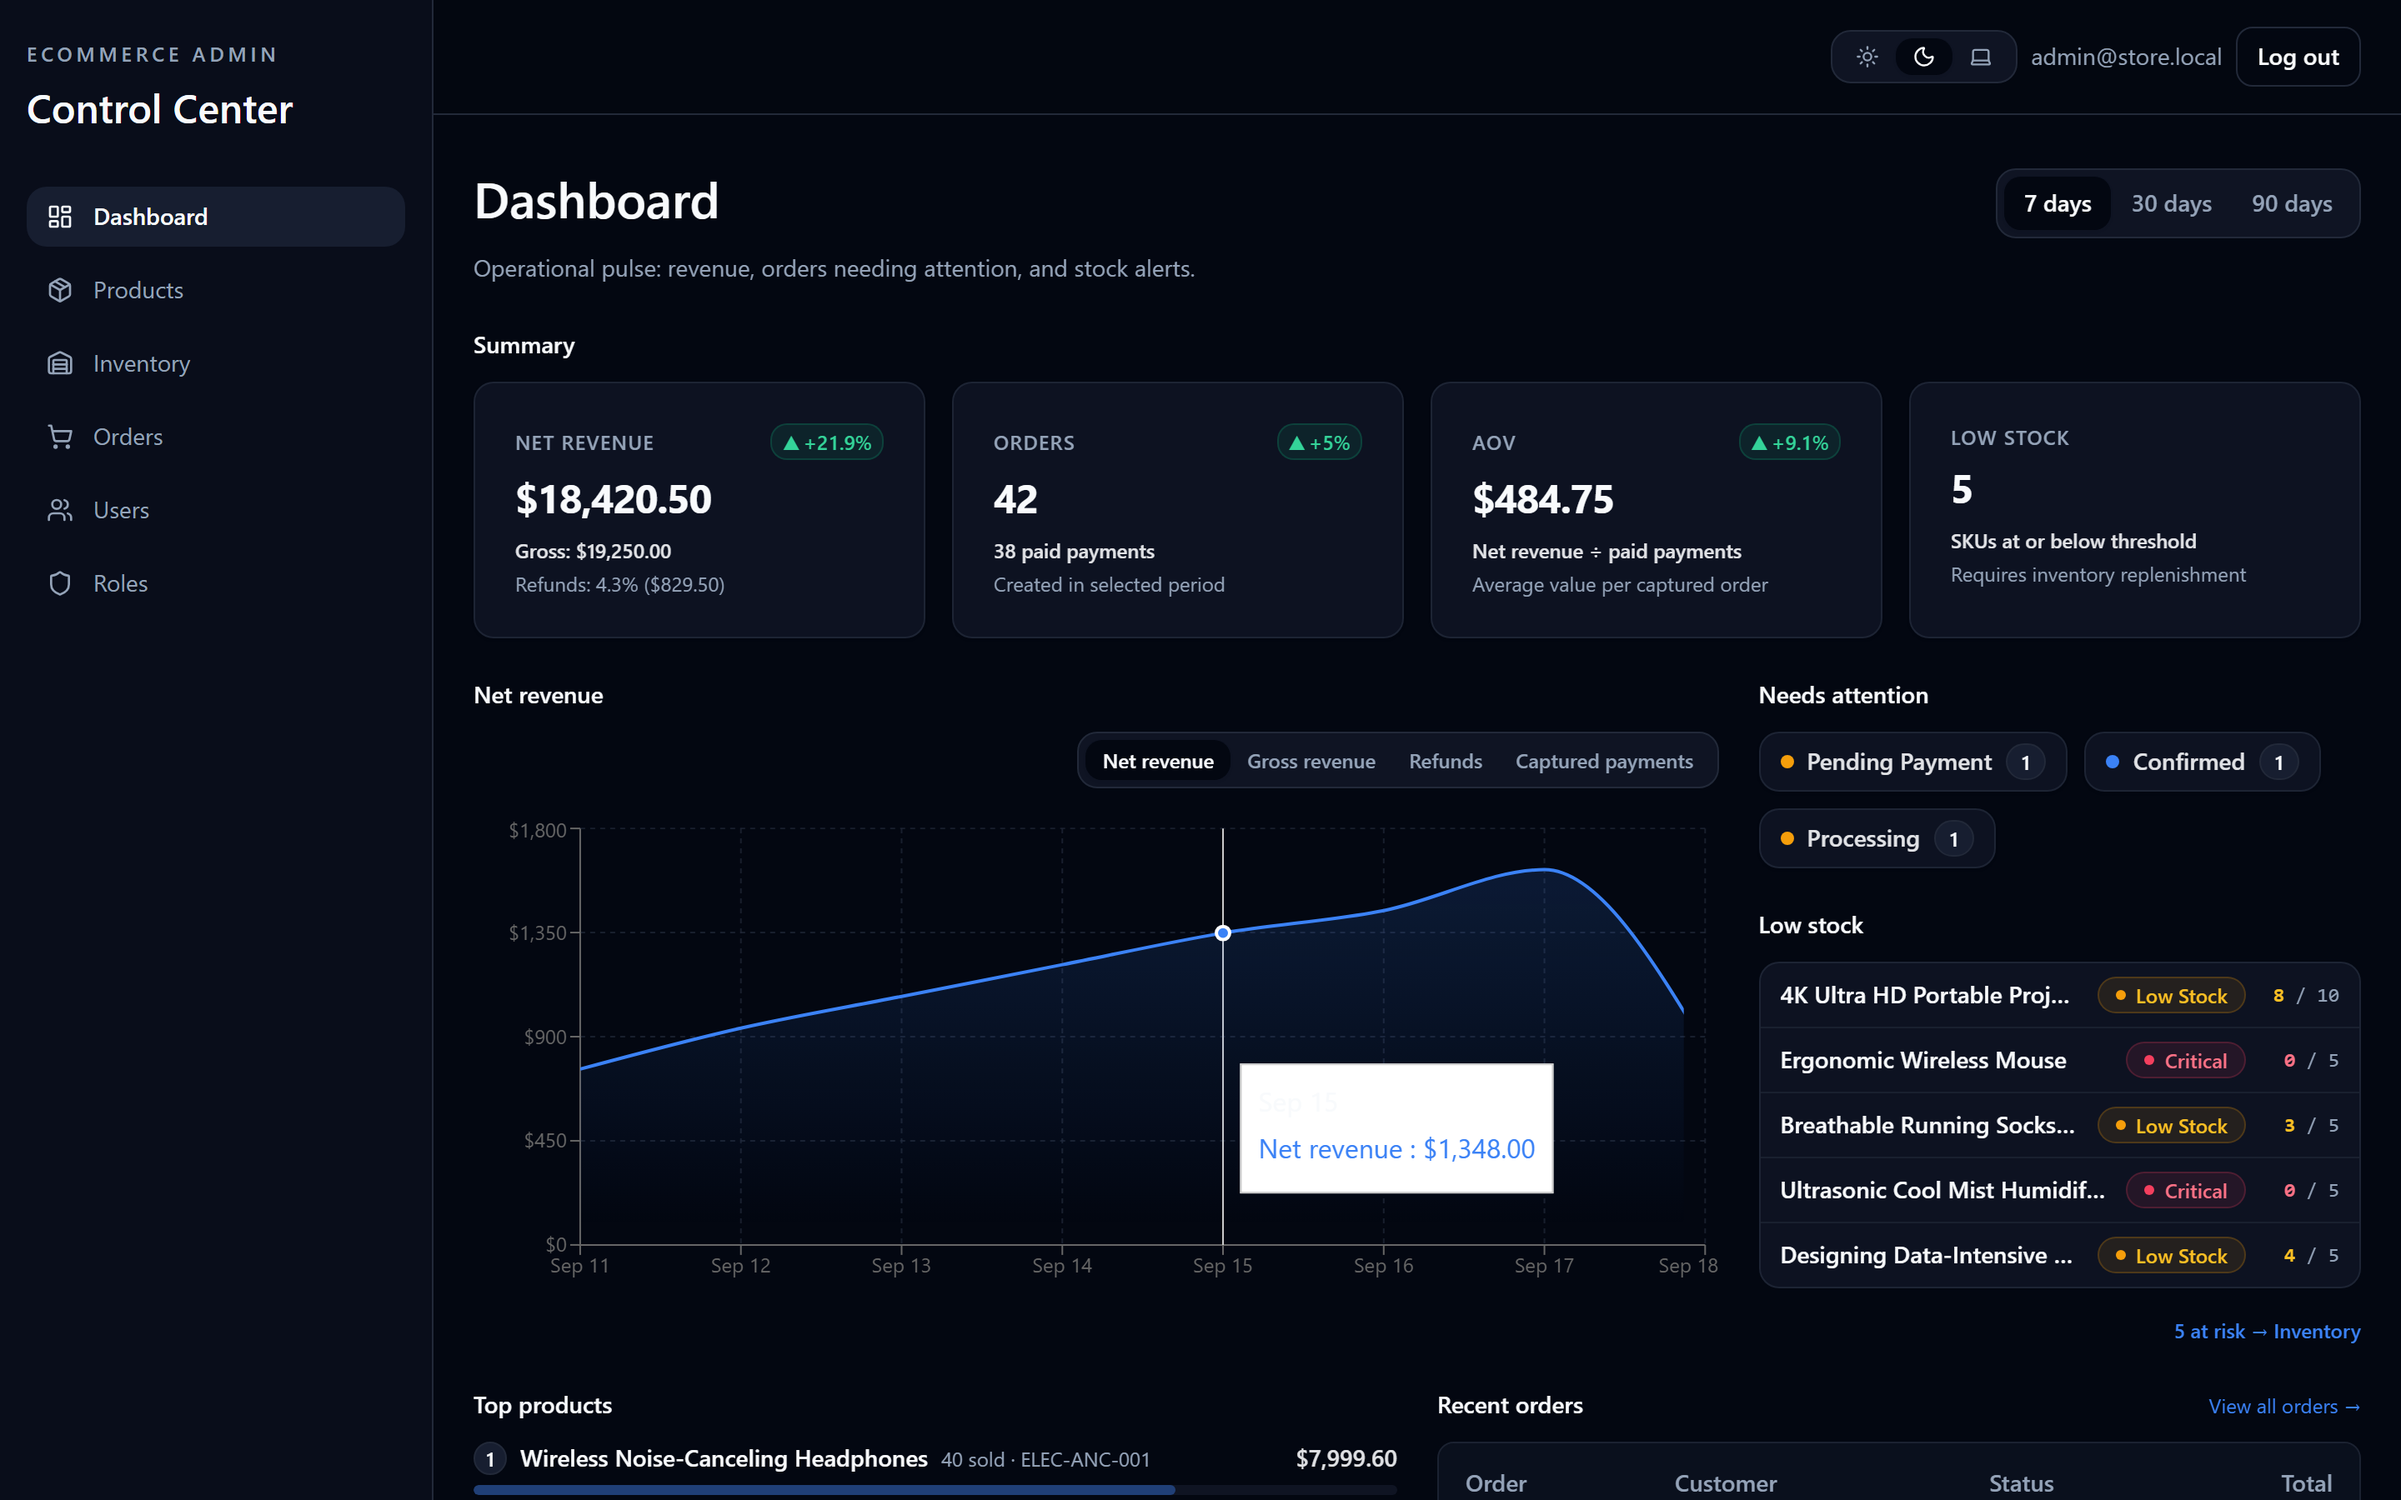
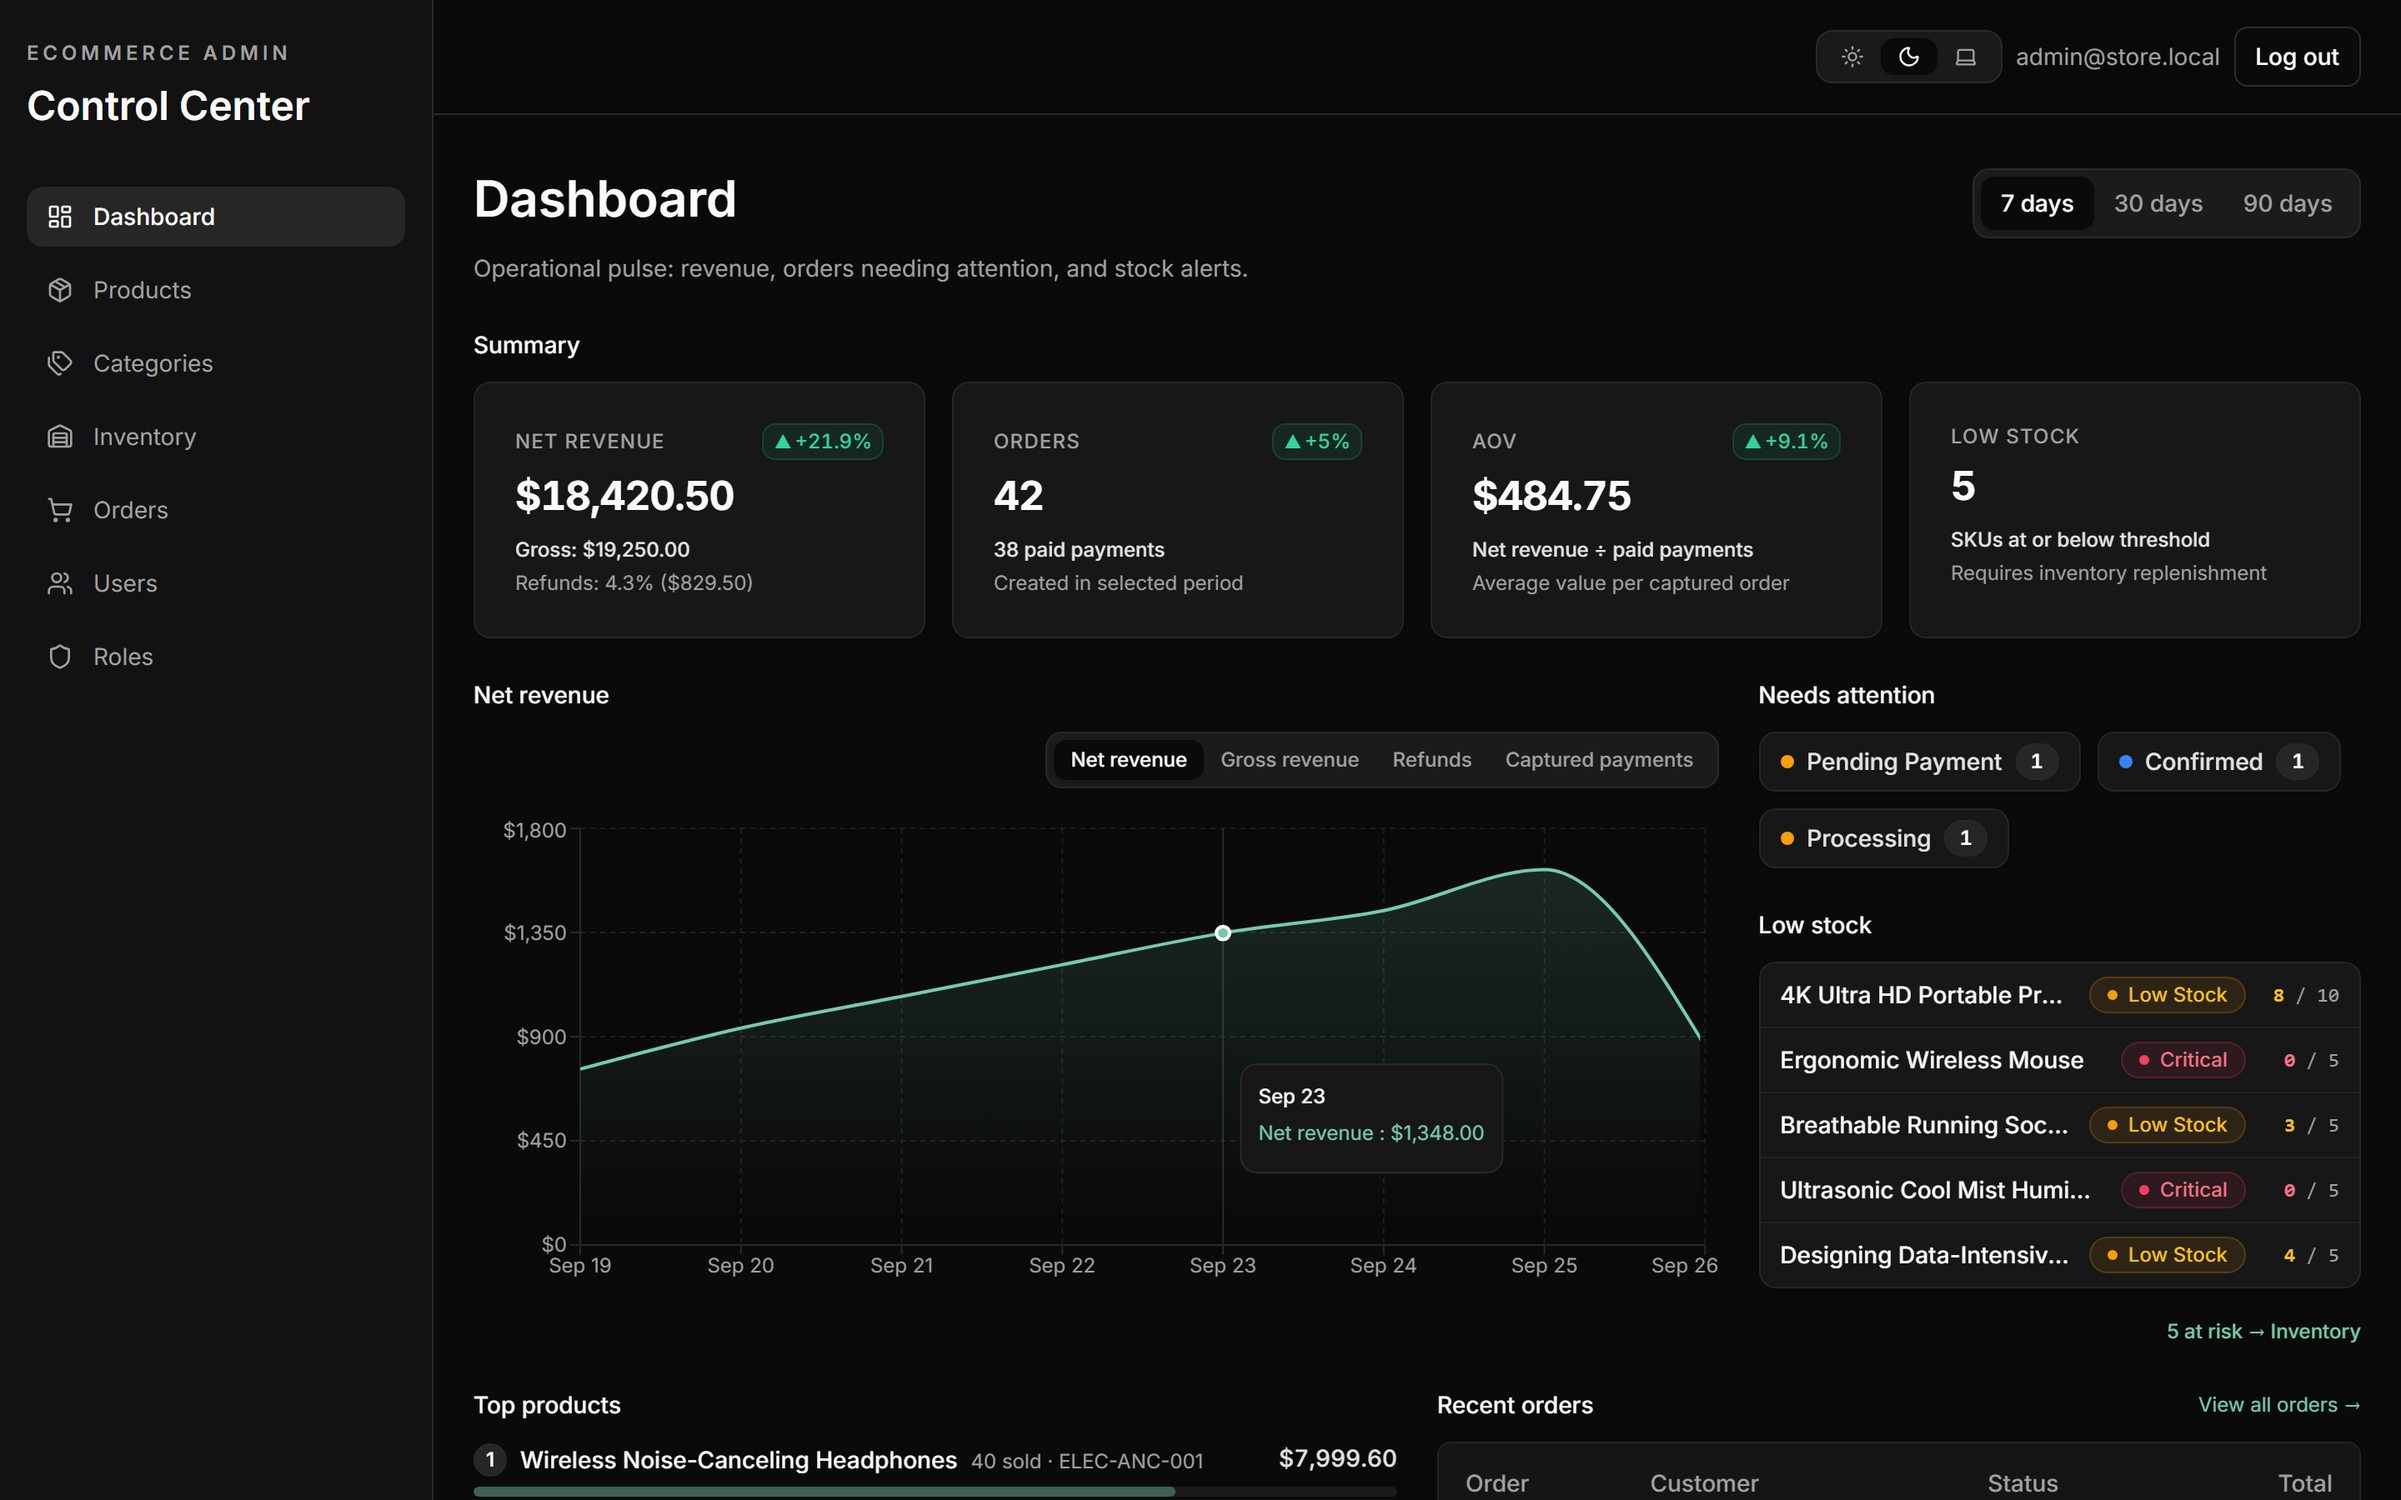
docs(assets): recapture showcase stills, walkthrough webp, and mark Phase 12.5 roadmap items
- Recapture full dark/light screenshots via dev:mock on port 5174
- Generate dashboard-walkthrough.webp animation
- Check off finished Phase 12.5 items in ROADMAP

diff --git a/scripts/capture-showcase.js b/scripts/capture-showcase.js
@@ -91,7 +91,7 @@ async function main() {
   const prodEditLink = darkPage.locator('table tbody tr a:has-text("Edit")').first();
   await prodEditLink.click();
   await darkPage.waitForURL(/\/products\/\d+\/edit/, { timeout: 10_000 });
-  await darkPage.waitForSelector('text=Media asset', { timeout: 10_000 });
+  await darkPage.waitForSelector('h2:has-text("Catalog image")', { timeout: 10_000 });
   await darkPage.waitForTimeout(800);
   const prodEditDarkPath = path.join(assetsDir, 'screenshot-product-edit-dark.png');
   await darkPage.screenshot({ path: prodEditDarkPath });
@@ -210,7 +210,7 @@ async function main() {
   const prodEditLightLink = lightPage.locator('table tbody tr a:has-text("Edit")').first();
   await prodEditLightLink.click();
   await lightPage.waitForURL(/\/products\/\d+\/edit/, { timeout: 10_000 });
-  await lightPage.waitForSelector('text=Media asset', { timeout: 10_000 });
+  await lightPage.waitForSelector('h2:has-text("Catalog image")', { timeout: 10_000 });
   await lightPage.waitForTimeout(800);
   const prodEditLightPath = path.join(assetsDir, 'screenshot-product-edit-light.png');
   await lightPage.screenshot({ path: prodEditLightPath });

diff --git a/scripts/create-walkthrough.js b/scripts/create-walkthrough.js
@@ -167,14 +167,14 @@ async function captureWalkthrough() {
   await page.keyboard.press('Escape');
   await page.waitForTimeout(400);
 
-  // Frame 9: Product edit page (2-column layout with Media asset & Category dropdown)
+  // Frame 9: Product edit page (2-column layout with catalog image preview & Category dropdown)
   await page.goto(`${baseUrl}/products`);
   await page.waitForSelector('table tbody tr', { timeout: 10_000 });
   const productEditLink = page.locator('table tbody tr a:has-text("Edit")').first();
   await productEditLink.click();
   await page.waitForURL(/\/products\/\d+\/edit/, { timeout: 10_000 });
-  await page.waitForSelector('text=Media asset', { timeout: 10_000 });
-  await snap('9. Product edit 2-column layout with media asset and category selector');
+  await page.waitForSelector('h2:has-text("Catalog image")', { timeout: 10_000 });
+  await snap('9. Product edit 2-column layout with catalog image preview and category selector');
 
   // Frame 10: Inventory list
   await page.goto(`${baseUrl}/inventory`);

diff --git a/docs/ROADMAP.md b/docs/ROADMAP.md
@@ -21,7 +21,7 @@
 
 Pick the first unchecked work. Letter suffixes (`8a`, `8b`, `8c`) are stable IDs - do not renumber them.
 
-1. **Finish Phase 12.5** - visual finish (chart tooltip, font, favicon, product thumbnails and image preview), then optional Cmd+K and trend badges.
+1. **Finish Phase 12.5** - optional Cmd+K and transition skeletons (P2). The visual finish, trend badges, and the Categories nav item have shipped.
 2. **Phase 12** - Payments ops (optional; does **not** block the already-done Phase 13 gate).
 3. **Phase 14** - Dashboard operational facts (blocked on OpenAPI operational fields).
 
@@ -102,7 +102,7 @@ Live queue (not numeric order): finish **12.5**, then optional **12**, then **14
 
 | Phase    | Name                               | Status | Priority | Focus                                                                           |
 | -------- | ---------------------------------- | ------ | :------: | ------------------------------------------------------------------------------- |
-| **12.5** | Operational UX & Real-Time Sync    | `[/]`  |  `[P1]`  | Core slice shipped (Theme, WS, safe landing); checklists/Cmd+K remaining        |
+| **12.5** | Operational UX & Real-Time Sync    | `[/]`  |  `[P1]`  | Core slice and visual finish shipped; Cmd+K and transition skeletons (P2) left |
 | **12**   | Payments ops                       | `[ ]`  |  `[P2]`  | Optional; does not block the release gate                                       |
 | **14**   | Dashboard Operational Facts        | `[ ]`  |  `[P2]`  | Blocked on OpenAPI operational fields                                           |
 
@@ -119,21 +119,23 @@ Live queue (not numeric order): finish **12.5**, then optional **12**, then **14
 - [x] **Real-Time WebSocket Feed:** Connect to API WebSocket gateway (`socket.io-client`). Show animated toast notifications when new orders arrive or stock drops below threshold, with query cache invalidation.
 - [x] **Guided Operator Checklist (Empty States):** Replace generic empty tables with an interactive "First-Time Operator Setup Guide" (e.g., 1. Add first product, 2. Set warehouse stock, 3. Review store settings).
 - [ ] **Command Palette (`Cmd+K` / `Ctrl+K`) [P2]:** Fast keyboard search and quick navigation across products, orders, customers, and setting views.
-- [ ] **Visual Micro-Interactions & Trend Badges [P2]:** Add trend percentage pills (▲/▼ % vs previous period) on dashboard cards and animated skeleton loaders during query transitions.
+- [x] **Trend Badges:** Trend percentage pills (▲/▼ % vs previous period) on dashboard KPI cards, computed from the analytics overview `previous` snapshot.
+- [ ] **Transition Skeletons [P2]:** Animated skeleton loaders while dashboard queries refetch after a period or metric change.
 - [x] **Silent refresh updates session Query:** After mid-request token refresh, update `AUTH_SESSION_QUERY_KEY` with permissions / `mustChangePassword` (not only `setAccessToken`), so nav chrome stays accurate if roles change mid-session.
 - [x] **Safe landing for limited operators:** Post-login and Forbidden CTA must not trap accounts with `access_admin` but without `view_all_orders` on `/` (land on first permitted nav item; Forbidden "home" must not loop).
 - [x] **Auth bootstrap retry:** Distinguish transient refresh/network failures from unauthenticated; avoid hard bounce to login with no retry on boot 5xx.
 - [x] **UsersTable column memo:** Memoize column defs like products/orders/inventory tables (minor render polish).
 - [x] **Address form DialogDescription:** Align `user-address-form` dialog a11y with other dialogs.
-- [ ] **Chart tooltip theming:** Recharts tooltips use theme tokens so dark mode never shows a white box.
-- [ ] **Load the declared font:** `index.css` names Inter but nothing loads it; self-host it (e.g. `@fontsource-variable/inter`) or switch the token to a deliberate system stack.
-- [ ] **Favicon and app icon:** ship a favicon and apple-touch icon so browser tabs are not blank.
-- [ ] **Product thumbnails:** show the existing `imageUrl` in the products table and order line items, with a styled placeholder when it is `null`.
-- [ ] **Product form image preview:** live preview of the typed image URL with a clear invalid or unreachable state. File upload waits on the API (see Out of scope).
-- [ ] **Truncated text:** names clipped in tables expose the full value (`title` or tooltip).
+- [x] **Chart tooltip theming:** Recharts tooltips use theme tokens so dark mode never shows a white box.
+- [x] **Load the declared font:** `index.css` names Inter but nothing loads it; self-host it (e.g. `@fontsource-variable/inter`) or switch the token to a deliberate system stack.
+- [x] **Favicon and app icon:** ship a favicon and apple-touch icon so browser tabs are not blank.
+- [x] **Product thumbnails:** show the existing `imageUrl` in the products table and order line items, with a styled placeholder when it is `null`.
+- [x] **Product form image preview:** live preview of the typed image URL with a clear invalid or unreachable state. File upload waits on the API (see Out of scope).
+- [x] **Truncated text:** names clipped in tables expose the full value (`title` or tooltip).
+- [x] **Categories in the primary nav:** a sidebar item links to `/products/categories`, active on its own route while Products stays active on other product routes. The categories table shows each category's active product count.
 
 **Done when:** Theme toggle works smoothly without flash; simulated WebSocket event triggers live toast and updates dashboard query cache; empty tables show actionable onboarding steps; product rows show a thumbnail or placeholder; the tab has a favicon; chart tooltips are readable in both themes.
-**Location:** `src/components/theme/`, `src/lib/ws/`, `src/components/ui/command-palette.tsx`, `src/features/dashboard/`, `src/features/products/`, `src/index.css`, `index.html`
+**Location:** `src/components/theme/`, `src/lib/ws/`, `src/components/ui/command-palette.tsx`, `src/features/dashboard/`, `src/features/products/`, `src/app/navigation.ts`, `src/components/layout/`, `src/index.css`, `index.html`
 
 ---
 
@@ -188,5 +190,4 @@ Live queue (not numeric order): finish **12.5**, then optional **12**, then **14
 - Customer checkout UI, carts, register, inventory reserve/release/check (storefront)
 - Inventing filters or buttons for operations that are not in OpenAPI
 - Global client store for server data (use TanStack Query)
-- Categories admin until the API exposes category list/write operations
 - Product image file upload until the API exposes a media upload operation in OpenAPI; keep the image URL field, no base64 or client-side storage workaround

diff --git a/.agents/PROJECT-CONTEXT.md b/.agents/PROJECT-CONTEXT.md
@@ -57,7 +57,7 @@ This repository is the operator-facing SPA for `ecommerce-store-api`.
 
 ## Upcoming Feature Order
 
-**Next up** (see [`docs/ROADMAP.md`](../docs/ROADMAP.md)): finish **12.5** remaining polish (guided empty states, optional Cmd+K / trend badges); optional **12** payments ops; **14** dashboard operational facts (blocked on API OpenAPI fields). Staff slices **8b/8c** are done (folded into Phase 8).
+**Next up** (see [`docs/ROADMAP.md`](../docs/ROADMAP.md)): finish **12.5** remaining polish (optional Cmd+K / transition skeletons); optional **12** payments ops; **14** dashboard operational facts (blocked on API OpenAPI fields). Staff slices **8b/8c** are done (folded into Phase 8).
 
 1. ~~Auth and RBAC chrome (wire guards to API session)~~ **done**
 2. ~~Operator gate + silent refresh~~ **done**
@@ -72,7 +72,7 @@ This repository is the operator-facing SPA for `ecommerce-store-api`.
 10. ~~Existing writes (product delete, user activate, roles UI)~~ **done**
 11. ~~API gaps then SPA (product activate, assign role)~~ **done**
 12. ~~User address book (list on user detail + existing writes)~~ **done**
-12.5. ~~Operational UX, real-time & hardening (Theme provider, WebSocket feed, silent refresh session sync, safe landing, RFC 9110 error helpers)~~ **core slice done** - remaining: empty-state checklist, optional Cmd+K / trend badges
+12.5. ~~Operational UX, real-time & hardening (Theme provider, WebSocket feed, silent refresh session sync, safe landing, RFC 9110 error helpers)~~ **core slice and visual finish done** - remaining: optional Cmd+K / transition skeletons
 13. ~~Release gate (live API stranger quick start + operator smoke)~~ **done** - see [`docs/RELEASE-GATE.md`](../docs/RELEASE-GATE.md)
 13.5. ~~Visual showcase (hero WebP walkthrough, 3 retina stills, README hero & matrix, UI/UX polish)~~ **done** - refresh media with `node scripts/create-walkthrough.js`
 12. Payments ops (optional; does not block the release gate)
